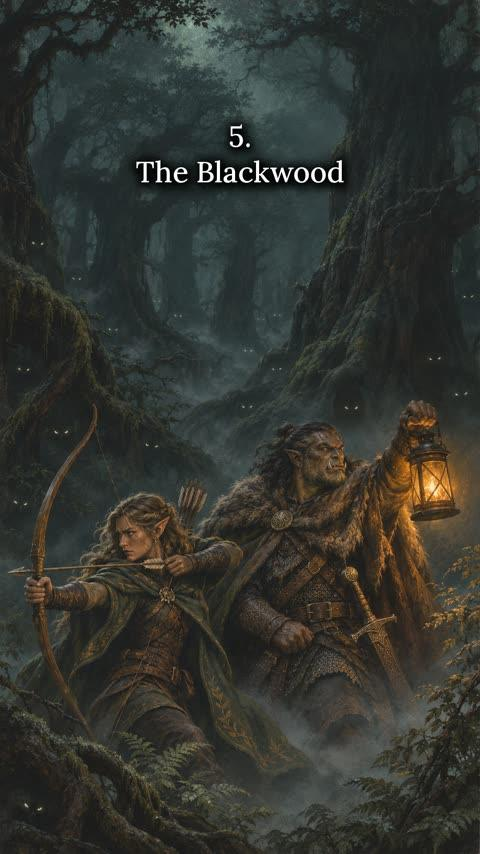
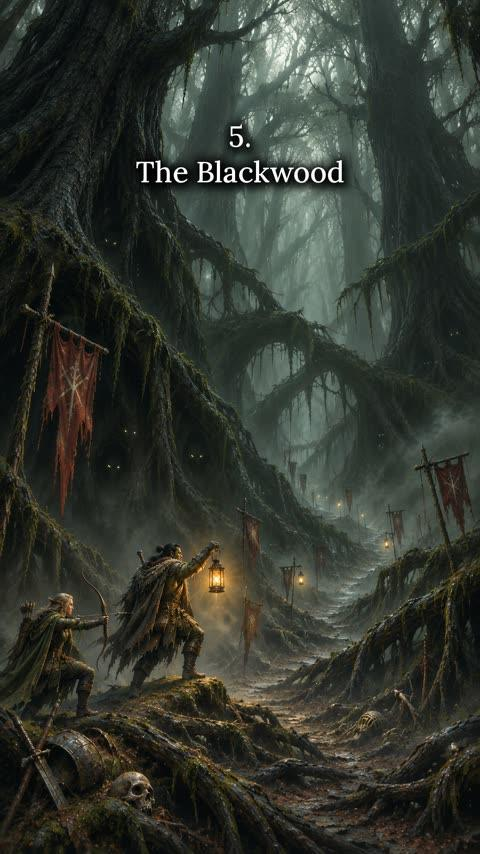
Tidy tree layout: mobile single-column tree, aligned twig lists, cleaner vote badges; refresh Ep23 art
Claude-Session: https://claude.ai/code/session_019SjQo4uPxatQMjpTgJHSEd

diff --git a/index.html b/index.html
@@ -120,11 +120,13 @@ a.plaque:hover{border-color:var(--acc);color:var(--gilt-hi)}
 .sealed .plaque{color:var(--vellum-dim)}
 .sealed-note{font-style:italic;font-size:13px;color:var(--vellum-dim);margin-top:4px;line-height:1.3}
 
-.twigs{list-style:none;margin:8px 0 0;padding:0;display:flex;flex-direction:column;gap:4px;width:100%;align-items:center}
-.twig{display:flex;align-items:center;gap:6px;font-size:13px;line-height:1.25;color:var(--vellum-dim);text-decoration:none;max-width:100%}
-.twig .bud{flex:none;width:8px;height:8px;border-radius:50%;border:1px dashed var(--vellum-dim);opacity:.8}
-.twig .tt{opacity:.75;font-style:italic;min-width:0}
-.twig .cnt{flex:none;font-family:var(--f-title);font-size:10px;letter-spacing:.06em;color:var(--vellum-dim);opacity:.85;font-variant-numeric:tabular-nums}
+.twigs{list-style:none;margin:10px auto 0;padding:0;display:flex;flex-direction:column;gap:5px;width:min(100%,232px);text-align:left}
+.twig{display:grid;grid-template-columns:10px minmax(0,1fr) auto;column-gap:8px;align-items:center;font-size:13.5px;line-height:1.3;color:var(--vellum-dim);text-decoration:none}
+.twig .bud{width:8px;height:8px;border-radius:50%;border:1px dashed var(--vellum-dim);opacity:.8;justify-self:center}
+.twig .tt{opacity:.8;font-style:italic;min-width:0}
+.twig .cnt{font-family:var(--f-title);font-size:10px;letter-spacing:.04em;color:var(--ink);background:var(--acc);border-radius:8px;padding:1px 6px;font-variant-numeric:tabular-nums;line-height:1.4}
+.twig .cnt:empty{display:none}
+.twig.lit .cnt{background:none;color:var(--gilt);padding:0;font-size:9px;letter-spacing:.14em;text-transform:uppercase}
 .twig.mine .bud{border-style:solid;border-color:var(--acc);background:var(--acc)}
 .twig.mine .tt{opacity:1;color:var(--vellum)}
 .twig.lit{color:var(--vellum)}
@@ -166,7 +168,7 @@ section.sec{margin-top:clamp(34px,4.5vw,46px)}
 .chronicle{margin-top:16px;padding:clamp(20px,4vw,40px) clamp(18px,5vw,56px);border:1px solid var(--line);border-radius:2px;
   background:radial-gradient(ellipse 80% 60% at 50% 0%,color-mix(in srgb,var(--acc) 7%,transparent),transparent 70%),linear-gradient(180deg,rgba(28,20,13,.78),rgba(14,9,6,.78));
   box-shadow:inset 0 0 0 4px rgba(18,12,8,.9),inset 0 0 0 5px rgba(201,161,74,.14)}
-.chronicle .leaf{max-width:68ch;margin:0 auto;font-size:clamp(18px,2.1vw,20px);line-height:1.65;display:flow-root}
+.chronicle .leaf{max-width:68ch;margin:0;font-size:clamp(18px,2.1vw,20px);line-height:1.65;display:flow-root}
 .chronicle p{margin:0 0 1em}
 .chronicle p:last-child{margin-bottom:0}
 .illum{float:left;width:calc(3 * 1.65em + 6px);aspect-ratio:1;margin:.28em .7em .2em 0;filter:drop-shadow(0 4px 8px rgba(0,0,0,.55)) drop-shadow(0 0 14px color-mix(in srgb,var(--acc) 22%,transparent))}
@@ -212,6 +214,17 @@ section.sec{margin-top:clamp(34px,4.5vw,46px)}
 .sealed-page p{font-style:italic;color:var(--vellum-dim);font-size:19px}
 
 @media (max-width:720px){
+  /* tree: trunk on the left, every tale on one side as a medallion + text card */
+  .tree{--trunk:14px}
+  .tree::before{left:20px;transform:none}
+  .row,.row:first-child{grid-template-columns:34px minmax(0,1fr);margin-top:0;padding-block:12px}
+  .row .limb,.row.L .limb,.row.R .limb{grid-column:2;justify-content:flex-start;--med:84px;--nw:auto}
+  .row .bough,.row.L .bough,.row.R .bough{order:-1;flex:0 0 22px;margin:calc(var(--med)/2 - 5px) 0 0 -14px;height:10px;clip-path:polygon(0 0,100% 30%,100% 70%,0 100%)}
+  .node{flex:1;width:auto;display:grid;grid-template-columns:var(--med) minmax(0,1fr);column-gap:16px;align-items:start;text-align:left}
+  .node .med{grid-row:1/span 3}
+  .node .plaque{margin-top:6px;justify-self:start}
+  .node .twigs{grid-column:2;margin:10px 0 0;width:100%}
+  .node .sealed-note{grid-column:2}
   .hero{grid-template-columns:1fr;justify-items:center;text-align:center}
   .hero .frame{width:min(250px,70vw)}
   .hook{margin-inline:auto}
@@ -593,7 +606,8 @@ function paintVotes(){
   document.querySelectorAll("[data-cnt]").forEach(el=>{
     const [ek,id] = el.dataset.cnt.split(":");
     const c = (S.counts[ek]||{})[id]||0;
-    el.textContent = live ? (el.closest(".twig") ? `${c} ${c===1?"vote":"votes"}` : `${c} ${c===1?"vote":"votes"}`) : (el.closest(".twig") ? "" : "");
+    const tw = el.closest(".twig");
+    el.textContent = !live ? "" : tw ? (c ? `${c}` : "") : `${c} ${c===1?"vote":"votes"}`;
   });
   document.querySelectorAll("[data-twig]").forEach(el=>{
     const [ek,id] = el.dataset.twig.split(":");
